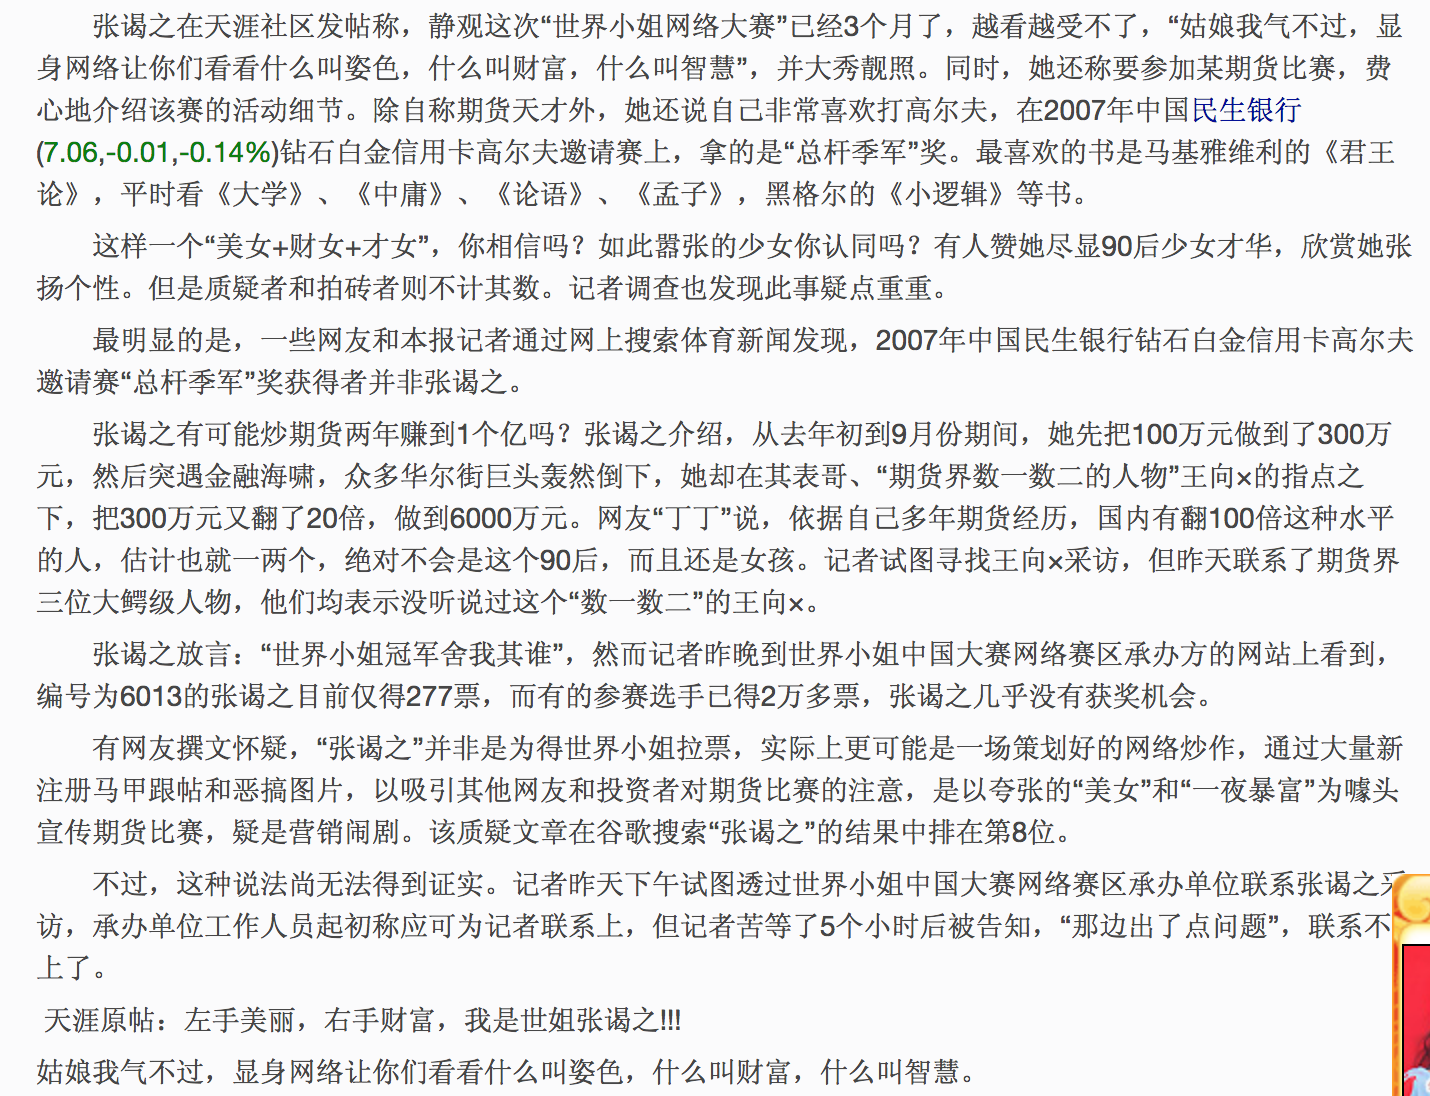
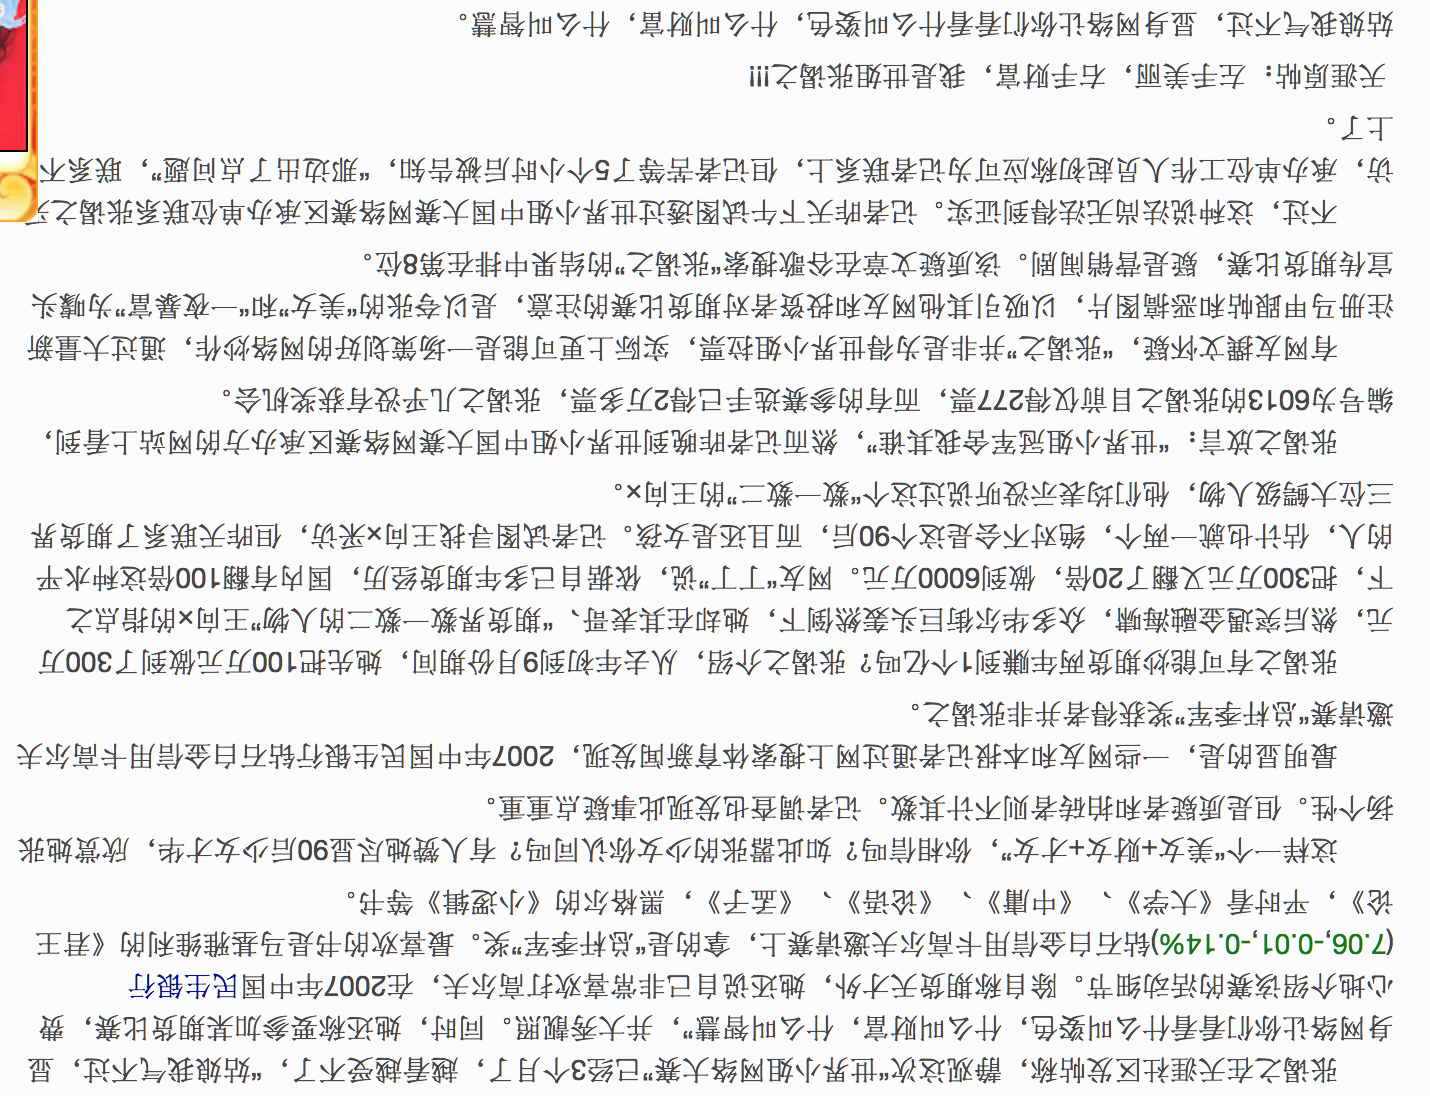
新增ocr dense

diff --git a/model.py b/model.py
@@ -2,8 +2,14 @@
 # -*- coding: utf-8 -*-
 from detector.detectors import TextDetector
 from detector.other import get_boxes
-import darknet_detect
-import opencv_dnn_detect ##opencv dnn model for darknet
+from config import opencvFlag
+from config import IMGSIZE
+from opencv_dnn_detect import angle_detect##文字方向检测
+if opencvFlag:
+    import opencv_dnn_detect as detect ##opencv dnn model for darknet
+else:
+    import darknet_detect as detect
+
 import numpy as np
 from PIL import Image
 import numpy as np
@@ -23,12 +29,9 @@ def text_detect(img,
                 LINE_MIN_SCORE=0.8,
                 TEXT_PROPOSALS_WIDTH=5,
                 MIN_NUM_PROPOSALS=1,
-                textmodel = 'darknet_detect'
+                
                 ):
-    if textmodel == 'darknet_detect':
-         boxes, scores = darknet_detect.text_detect(np.array(img))
-    else:
-        boxes, scores = opencv_dnn_detect.text_detect(np.array(img))
+    boxes, scores = detect.text_detect(np.array(img))
 
         
     boxes = np.array(boxes,dtype=np.float32)
@@ -191,25 +194,91 @@ def letterbox_image(image, size):
         '''
     image_w, image_h = image.size
     w, h = size
-    new_w = int(image_w * min(w*1.0/image_w, h*1.0/image_h))
-    new_h = int(image_h * min(w*1.0/image_w, h*1.0/image_h))
-    resized_image = image.resize((new_w,new_h), Image.BICUBIC)
+    
+    if max(image_w, image_h)<min(size):
+        resized_image = image
+        new_w = w
+        new_h = h
+    else:
+        new_w = int(image_w * min(w*1.0/image_w, h*1.0/image_h))
+        new_h = int(image_h * min(w*1.0/image_w, h*1.0/image_h))
+        resized_image = image.resize((new_w,new_h), Image.BICUBIC)
     
     boxed_image = Image.new('RGB', size, (128,128,128))
     boxed_image.paste(resized_image, ((w-new_w)//2,(h-new_h)//2))
     return boxed_image
 
+from scipy.ndimage import filters,interpolation,morphology,measurements,minimum
+#from pylab import amin, amax
+from numpy import amin, amax
+def estimate_skew_angle(raw):
+    """
+    估计图像文字角度
+    """
+    raw = resize_im(raw, scale=600, max_scale=900)
+    image = raw-amin(raw)
+    image = image/amax(image)
+    m = interpolation.zoom(image,0.5)
+    m = filters.percentile_filter(m,80,size=(20,2))
+    m = filters.percentile_filter(m,80,size=(2,20))
+    m = interpolation.zoom(m,1.0/0.5)
+    #w,h = image.shape[1],image.shape[0]
+    w,h = min(image.shape[1],m.shape[1]),min(image.shape[0],m.shape[0])
+    flat = np.clip(image[:h,:w]-m[:h,:w]+1,0,1)
+    d0,d1 = flat.shape
+    o0,o1 = int(0.1*d0),int(0.1*d1)
+    flat = amax(flat)-flat
+    flat -= amin(flat)
+    est = flat[o0:d0-o0,o1:d1-o1]
+    angles = range(-15,15)
+    estimates = []
+    for a in angles:
+        
+        roest =interpolation.rotate(est,a,order=0,mode='constant')
+        v = np.mean(roest,axis=1)
+        v = np.var(v)
+        estimates.append((v,a))
+    
+    _,a = max(estimates)
+    return a
 
 
+def eval_angle(im,detectAngle=False,ifadjustDegree=True):
+    """
+    估计图片偏移角度
+    @@param:img,
+    @@param:model,选择的ocr模型，支持keras\pytorch版本
+    @@param:adjust 调整文字识别结果
+    @@param:detectAngle 是否检测文字朝向
+    """
+    angle = 0
+    degree=0.0
+    img = np.array(im)
+    if detectAngle:
+        angle = angle_detect(img=np.copy(img))##文字朝向检测
+        if angle==90:
+            im = im.transpose(Image.ROTATE_90)
+        elif angle==180:
+            im = im.transpose(Image.ROTATE_180)
+        elif angle==270:
+            im = im.transpose(Image.ROTATE_270)
+        img = np.array(im)
+        
+    if ifadjustDegree:
+       degree = estimate_skew_angle(np.array(im.convert('L')))
+    return  angle,degree,im.rotate(degree)
 
-def model(img,detectAngle=False,config={},ifIm=True,leftAdjust=False,rightAdjust=False,alph=0.1):
+
+def model(img,detectAngle=False,config={},ifIm=True,leftAdjust=False,rightAdjust=False,alph=0.2,ifadjustDegree=False):
     """
     @@param:img,
     @@param:adjust 调整文字识别结果
     @@param:detectAngle,是否检测文字朝向
     """
-    angle = 0
-    img =letterbox_image(img, (608,608))
+    angle,degree,img = eval_angle(img,detectAngle=detectAngle,ifadjustDegree=ifadjustDegree)
+    
+    img =letterbox_image(img, IMGSIZE)
+    
     config['img'] = img
     text_recs,tmp = text_detect(**config)
     

diff --git a/opencv_dnn_detect.py b/opencv_dnn_detect.py
@@ -1,14 +1,17 @@
 from config import yoloCfg,yoloWeights
+from config import AngleModelPb,AngleModelPbtxt
+from config import IMGSIZE
 from PIL import Image
 import numpy as np
 import cv2
-net = cv2.dnn.readNetFromDarknet(yoloCfg,yoloWeights)
+textNet = cv2.dnn.readNetFromDarknet(yoloCfg,yoloWeights)
+angleNet = cv2.dnn.readNetFromTensorflow(AngleModelPb,AngleModelPbtxt)##文字方向检测
 def text_detect(img):
     thresh=0.1
     h,w = img.shape[:2]
-    inputBlob = cv2.dnn.blobFromImage(img, scalefactor=0.00390625, size=(608, 608),swapRB=True ,crop=False);
-    net.setInput(inputBlob)
-    pred = net.forward()
+    inputBlob = cv2.dnn.blobFromImage(img, scalefactor=0.00390625, size=IMGSIZE,swapRB=True ,crop=False);
+    textNet.setInput(inputBlob)
+    pred = textNet.forward()
     cx = pred[:,0]*w
     cy = pred[:,1]*h
     xmin = cx - pred[:,2]*w/2
@@ -20,3 +23,28 @@ def text_detect(img):
     scores = scores[indx]
     boxes = np.array(list(zip(xmin[indx],ymin[indx],xmax[indx],ymax[indx])))
     return boxes,scores
+
+
+def angle_detect(img,adjust=True):
+    """
+    文字方向检测
+    """
+    h,w = img.shape[:2]
+    ROTATE = [0,90,180,270]
+    if adjust:
+       thesh = 0.05
+       xmin,ymin,xmax,ymax = int(thesh*w),int(thesh*h),w-int(thesh*w),h-int(thesh*h)
+       img = img[ymin:ymax,xmin:xmax]##剪切图片边缘，清楚边缘噪声
+    
+    
+    inputBlob = cv2.dnn.blobFromImage(img, 
+                                      scalefactor=1.0, 
+                                      size=(224, 224),
+                                      swapRB=True ,
+                                      mean=[103.939,116.779,123.68],crop=False);
+    angleNet.setInput(inputBlob)
+    pred = angleNet.forward()
+    index = np.argmax(pred,axis=1)[0]
+    return ROTATE[index]
+
+

diff --git a/config.py b/config.py
@@ -1,7 +1,24 @@
 import os
+opencvFlag = True##opencvFlag==True 启用opencv dnn 反之 darkent 
 darknetRoot = os.path.join(os.path.curdir,"darknet")## yolo 安装目录
 pwd = os.getcwd()
 yoloCfg = os.path.join(pwd,"models","text.cfg")
 yoloWeights = os.path.join(pwd,"models","text.weights")
 yoloData = os.path.join(pwd,"models","text.data")
-ocrModel = os.path.join(pwd,"models","ocr.pth")
+##文字方向检测
+AngleModelPb = os.path.join(pwd,"models","Angle-model.pb")
+AngleModelPbtxt = os.path.join(pwd,"models","Angle-model.pbtxt")
+IMGSIZE = (1024,1024)## yolo3 输入图像尺寸
+##是否启用LSTM crnn模型
+DETECTANGLE=True##是否进行文字方向检测
+LSTMFLAG = True##OCR模型是否调用LSTM层
+GPU = True##OCR 是否启用GPU
+chinsesModel = True##模型选择 True:中英文模型 False:英文模型
+if chinsesModel:
+    if LSTMFLAG:
+        ocrModel  = os.path.join(pwd,"models","ocr-lstm.pth")
+    else:
+        ocrModel = os.path.join(pwd,"models","ocr-dense.pth")
+else:
+        LSTMFLAG=True
+        ocrModel = os.path.join(pwd,"models","ocr-english.pth")

diff --git a/darknet_detect.py b/darknet_detect.py
@@ -8,6 +8,7 @@ os.chdir(darknetRoot)
 sys.path.append('python')
 import darknet as dn
 
+
 def array_to_image(arr):
     arr = arr.transpose(2,0,1)
     c = arr.shape[0]
@@ -56,6 +57,8 @@ net = dn.load_net(yoloCfg.encode('utf-8'), yoloWeights.encode('utf-8'), 0)
 meta = dn.load_meta(yoloData.encode('utf-8'))
 os.chdir(pwd)
 def text_detect(img):
+    inputBlob = cv2.dnn.blobFromImage(img, scalefactor=0.00390625, size=(608, 608),swapRB=True ,crop=False);
+    
     r = detect_np(net, meta, img,thresh=0.1, hier_thresh=0.5, nms=0.8)
     bboxes = to_box(r)
     return bboxes

diff --git a/README.md b/README.md
@@ -1,23 +1,39 @@
 ## 本项目基于[yolo3](https://github.com/pjreddie/darknet.git) 与[crnn](https://github.com/meijieru/crnn.pytorch.git)  实现中文自然场景文字检测及识别
 
 ## 环境部署
-python=3.6 pytorch=0.2.0
+python=3.6 pytorch==0.4.1
 ``` Bash
 git clone https://github.com/chineseocr/chineseocr.git
 cd chineseocr
 sh setup.sh #(cpu sh setpu-cpu.sh)
 ```
 
+下载编译darknet(如果直接运用opencv dnn 可忽略darknet的编译)
+```
+git clone https://github.com/pjreddie/darknet.git 
+mv darknet chineseocr/
+##编译对GPU、cudnn的支持 修改 Makefile
+#GPU=1
+#CUDNN=1
+#OPENCV=0
+#OPENMP=0
+make 
+```
+修改 darknet/python/darknet.py line 48
+root = '/root/'##chineseocr所在目录
+lib = CDLL(root+"chineseocr/darknet/libdarknet.so", RTLD_GLOBAL)
+
+
 ## 下载模型文件   
 模型文件地址:
-* [baidu pan](https://pan.baidu.com/s/1dEopm8VkFLuDDfVkpuzHqQ)
-* [google drive](https://drive.google.com/drive/folders/1vlA6FjvicTt5GKvAfmycP5AlYxm4i9ze?usp=sharing)
+* [baidu pan](https://pan.baidu.com/s/1gTW9gwJR6hlwTuyB6nCkzQ)
+* [google drive](https://drive.google.com/drive/folders/1vlA6FjvicTt5GKvAfmycP5AlYxm4i9ze?usp=sharing)（暂时无更新）
 
-复制文件夹中的 ocr.pth, text.cfg, text.names, text.weights 到models目录
+复制文件夹中的所有文件到models目录
 
-或者可将yolo3模型转换为keras版本，详细参考https://github.com/qqwweee/keras-yolo3.git    
+也可将yolo3模型转换为keras版本，详细参考https://github.com/qqwweee/keras-yolo3.git    
 
-或者直接运用opencv>=3.4  dnn直接调用darknet模型（参考 opencv_dnn_detect.py），cpu文本检测小于1秒。   
+或者直接运用opencv>=3.4  dnn模块调用darknet模型(参考 opencv_dnn_detect.py)。   
 
 ## web服务启动
 ``` Bash
@@ -29,6 +45,7 @@ ipython app.py 8080 ##8080端口号，可以设置任意端口
 
 <img width="500" height="300" src="https://github.com/chineseocr/chineseocr/blob/master/test/img1.png"/>
 <img width="500" height="300" src="https://github.com/chineseocr/chineseocr/blob/master/test/4.png"/>
+<img width="500" height="300" src="https://github.com/chineseocr/chineseocr/blob/master/test/card1.png"/>
 
 ## Play with Docker Container
 ``` Bash
@@ -46,5 +63,6 @@ http://127.0.0.1:8080/ocr
 1. yolo3 https://github.com/pjreddie/darknet.git   
 2. crnn  https://github.com/meijieru/crnn.pytorch.git              
 3. ctpn  https://github.com/eragonruan/text-detection-ctpn    
-4. CTPN  https://github.com/tianzhi0549/CTPN     
+4. CTPN  https://github.com/tianzhi0549/CTPN   
+5.https://github.com/qqwweee/keras-yolo3.git 
 

diff --git a/models/README.md b/models/README.md
@@ -1,0 +1,1 @@
+## 下载对应的权重文件放在此目录
